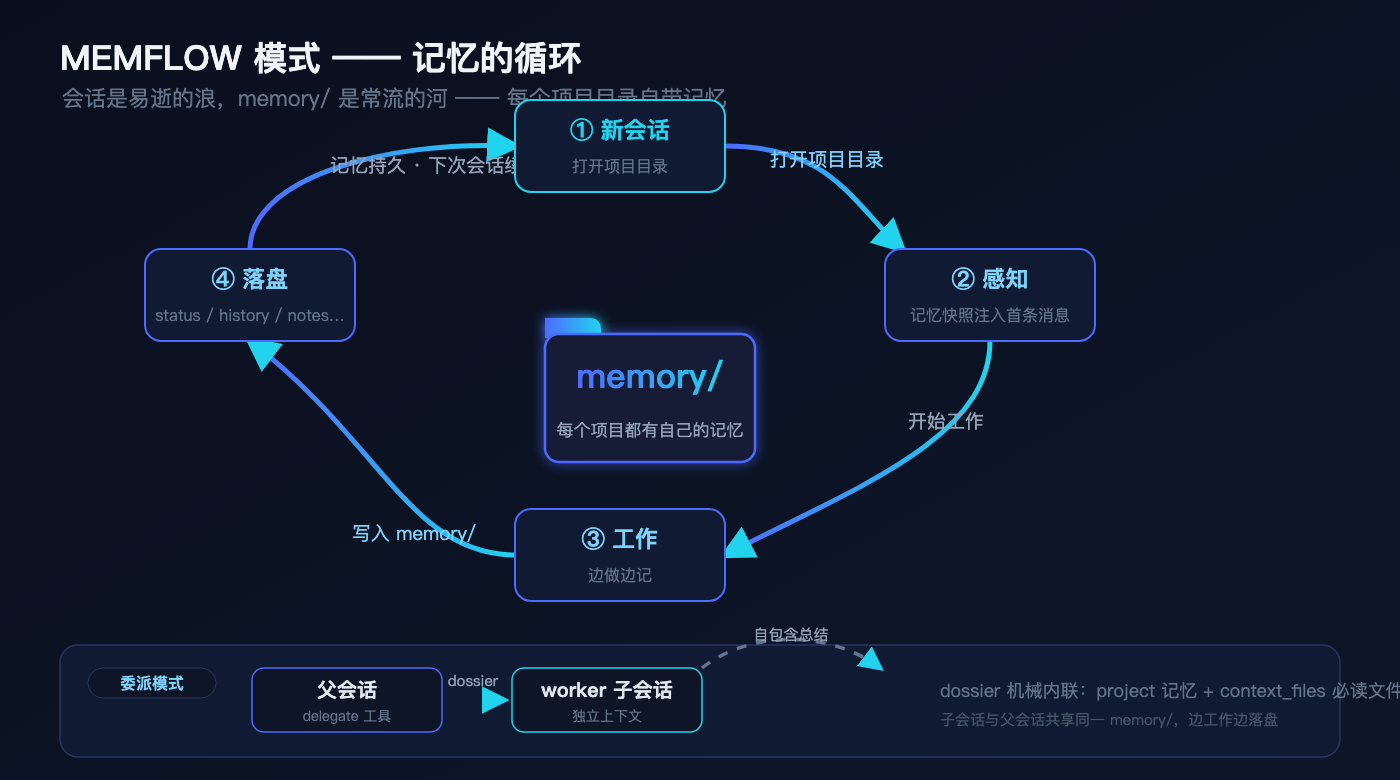
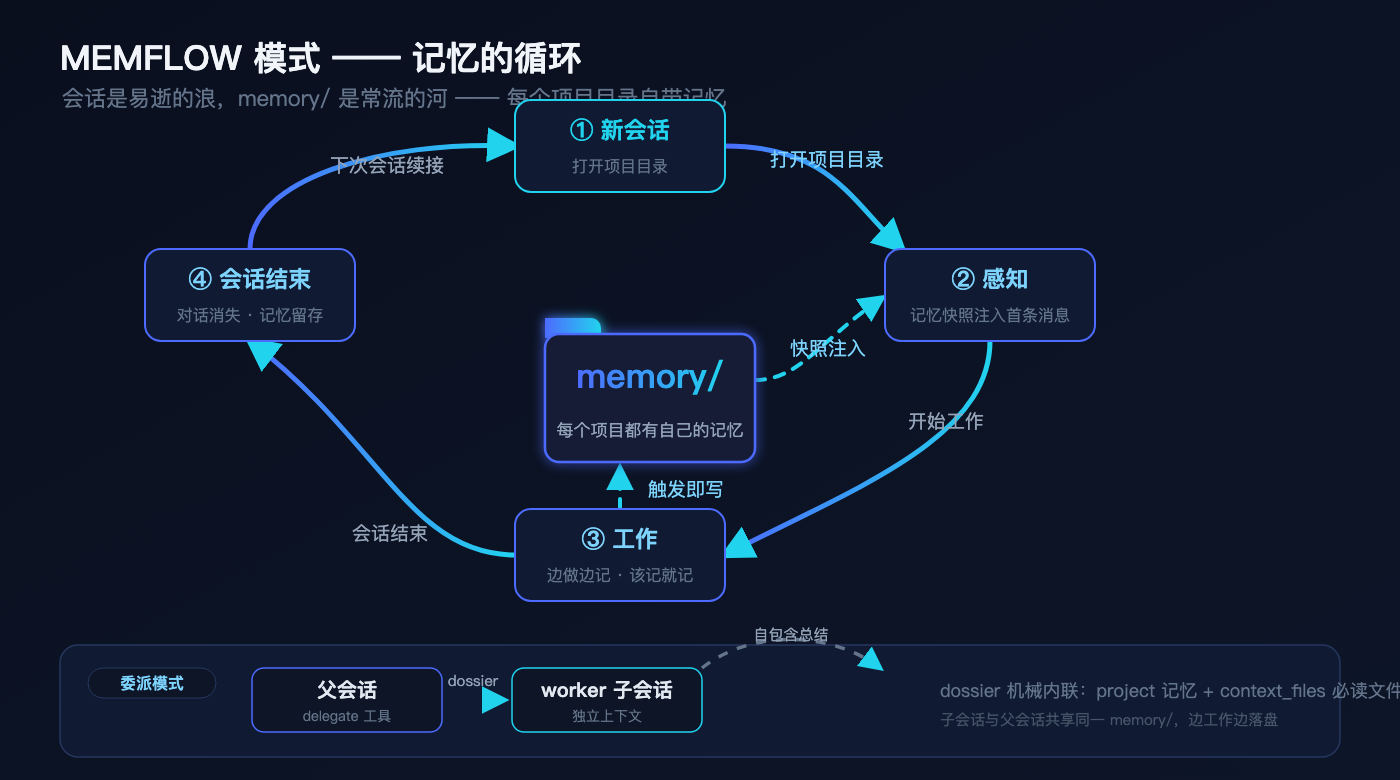
dsh-memflow: fix wording — memory is written when triggered, no fixed commit step
- About v3: 感知先行、边做边记、无缝续接 (drops the misleading 落盘)
- banner/flow figures: session-ends node + triggered-write channels
- README zh/en synced; Brick records the wording discipline

diff --git a/README.md b/README.md
@@ -6,7 +6,7 @@
 
 > **MEMFLOW 记忆流模式** —— DeepSeek Harness 的记忆框架插件。
 >
-> **会话会结束，记忆不会**：感知先行、边做边记、落盘交接。
+> **会话会结束，记忆不会**：感知先行、边做边记、无缝续接。
 > **分布式记忆架构，每个项目都有自己的记忆，一个插件让你的所有工作流实现类 Hermes 效果。**
 
 [English](#english) · [协议全文](MEMFLOW.md) · [License](LICENSE)
@@ -19,7 +19,7 @@ MEMFLOW 是 [DeepSeek Harness (dsh)](https://github.com/deepseek-ai/deepseek-har
 
 > 任何 AI 会话的关键状态都不应只停留在对话里——会话结束即永久丢失。
 
-因此每个工作目录（项目）都拥有自己的 `memory/` 持久记忆：会话开始时**机械加载**当前目录的记忆快照、工作中**边做边记**、结束后**落盘交接**。任何新会话只要打开同一目录，就能完整恢复现状。所有项目的记忆各自独立、互不干扰——这就是分布式记忆架构。
+因此每个工作目录（项目）都拥有自己的 `memory/` 持久记忆：会话开始时**机械加载**当前目录的记忆快照、工作中**边做边记**——该记就记：任务完成、状态变化、关键决策、踩坑经验**触发即写**，没有固定的收尾落盘流程。任何新会话只要打开同一目录，就能完整恢复现状。所有项目的记忆各自独立、互不干扰——这就是分布式记忆架构。
 
 <p align="center">
   <img src="docs/flow.png" alt="MEMFLOW 模式循环：新会话 → 感知 → 工作 → 落盘 → 新会话" width="92%">
@@ -50,7 +50,7 @@ dsh --profile headless "你的任务"
 任何目录下启动的会话都会：
 
 1. **感知先行**：会话首条消息即当前目录 `memory/` 的记忆快照（`status/tasks/notes/brick_index/history` 优先，其余 `.md` 补齐，单文件 8KB / 总量 64KB 上限，截断带路径提示）；
-2. **边做边记**：关键决策、状态变化、踩坑经验按协议写入对应记忆文件；
+2. **边做边记**：关键决策、状态变化、踩坑经验**触发即写**（该记就记，没有固定落盘流程）；
 3. **委派传承**：用 `delegate` 工具委派子 agent 时，`project_dir` 的记忆与 `context_files` 必读文件机械内联进 dossier，子 agent 自包含开工。
 
 ## 配置
@@ -100,7 +100,7 @@ dsh --profile headless "你的任务"
 
 **Distributed memory architecture: every project carries its own memory, one plugin for Hermes-like memory across all your workflows.**
 
-No session state should live only in the conversation — it dies with the session. With MEMFLOW, every working directory (project) owns a persistent `memory/`, mechanically loaded at session start, maintained while working, and committed when done. Any new session opening the same directory restores full context.
+No session state should live only in the conversation — it dies with the session. With MEMFLOW, every working directory (project) owns a persistent `memory/`, mechanically loaded at session start, recorded the moment it matters while working — no fixed commit step. Any new session opening the same directory restores full context.
 
 One protocol, three carriers:
 
